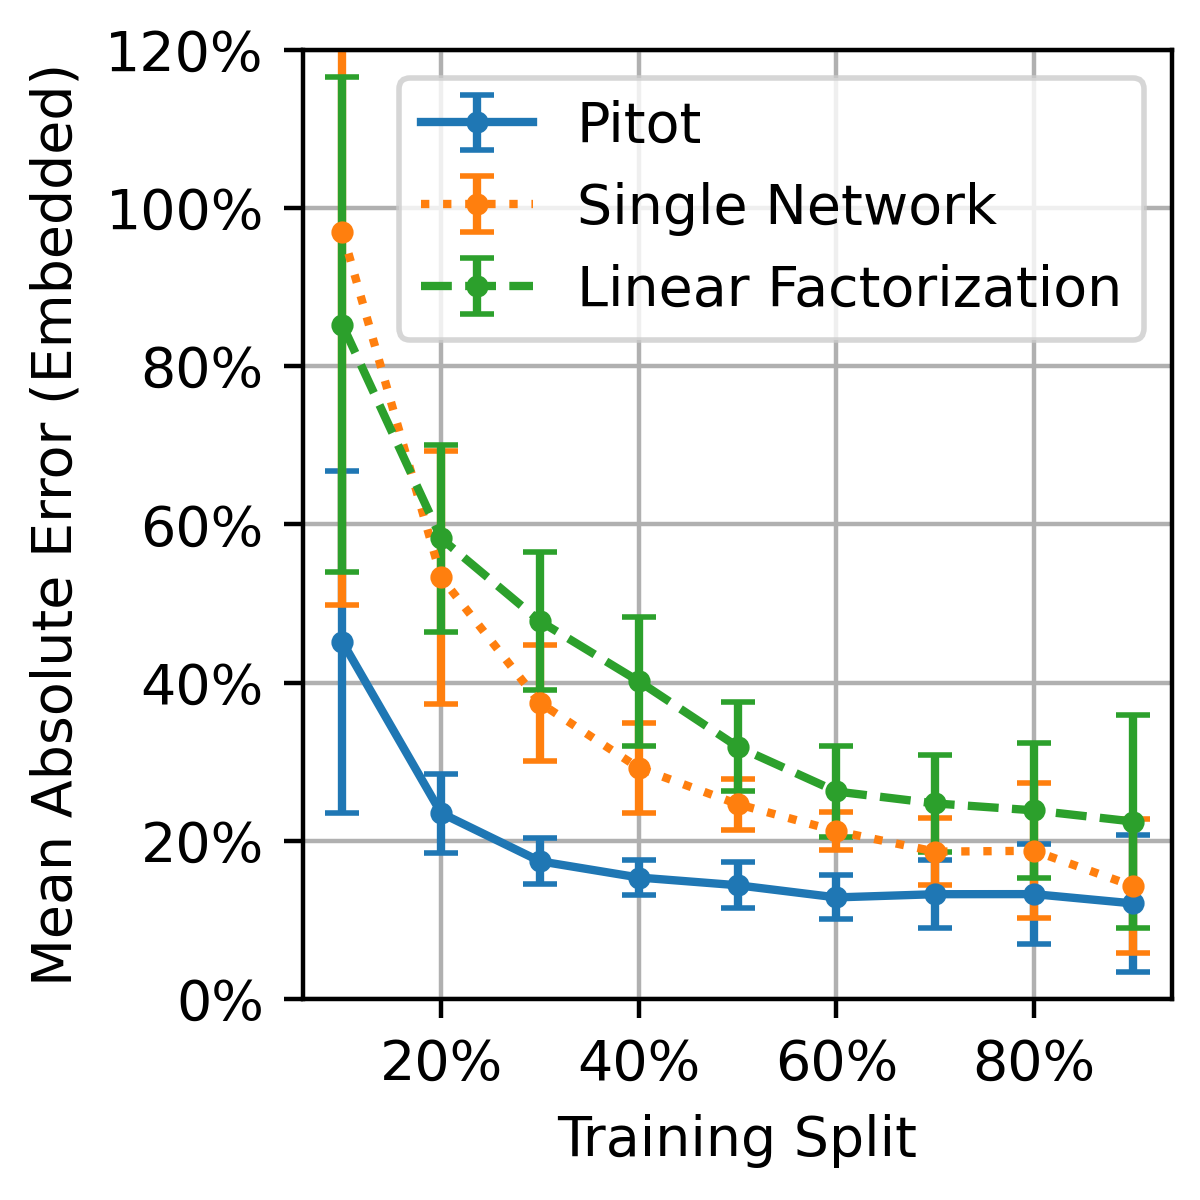
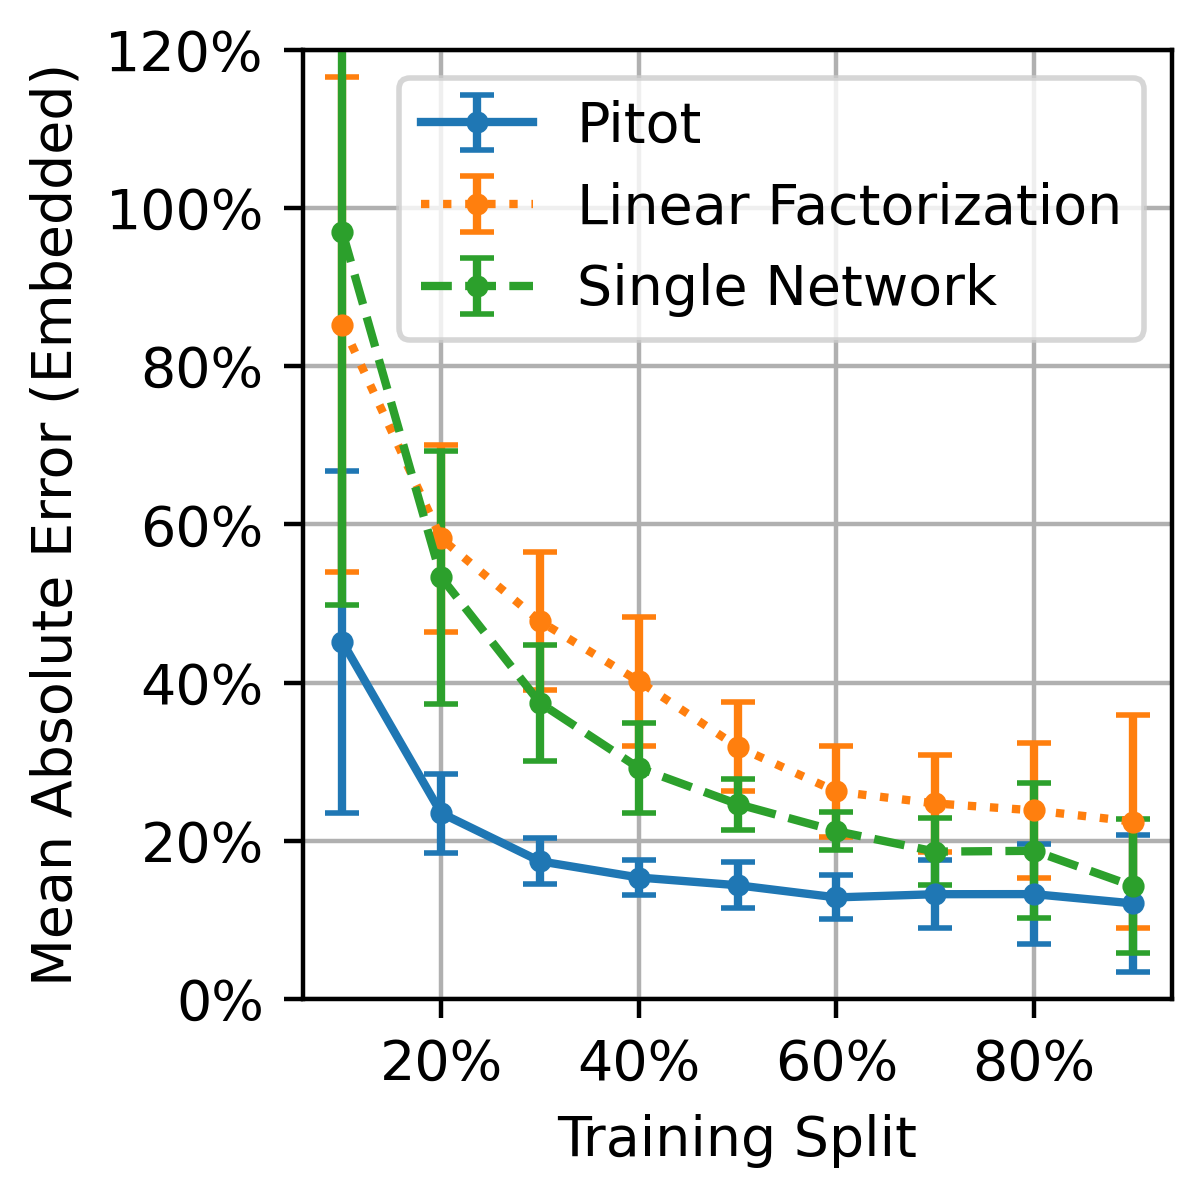
fix: order of linear factorization / single network baselines not consistent in figures

diff --git a/tools/embedded.py b/tools/embedded.py
@@ -54,9 +54,8 @@ def _main(args):
 
     methods = {
         "embedding/128": "Pitot",
-        "baseline/mlp": "Single Network",
         "linear/128": "Linear Factorization",
-        "baseline/device_mlp": "Per-Device",
+        "baseline/mlp": "Single Network",
     }
 
     ds = Dataset.from_npz(args.data)
